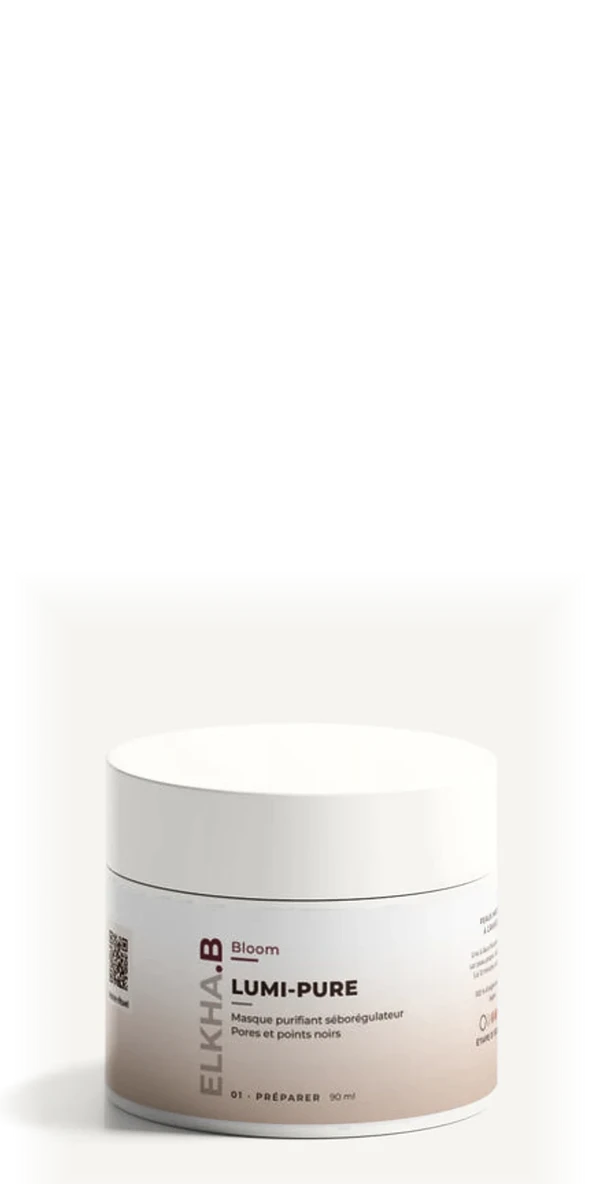
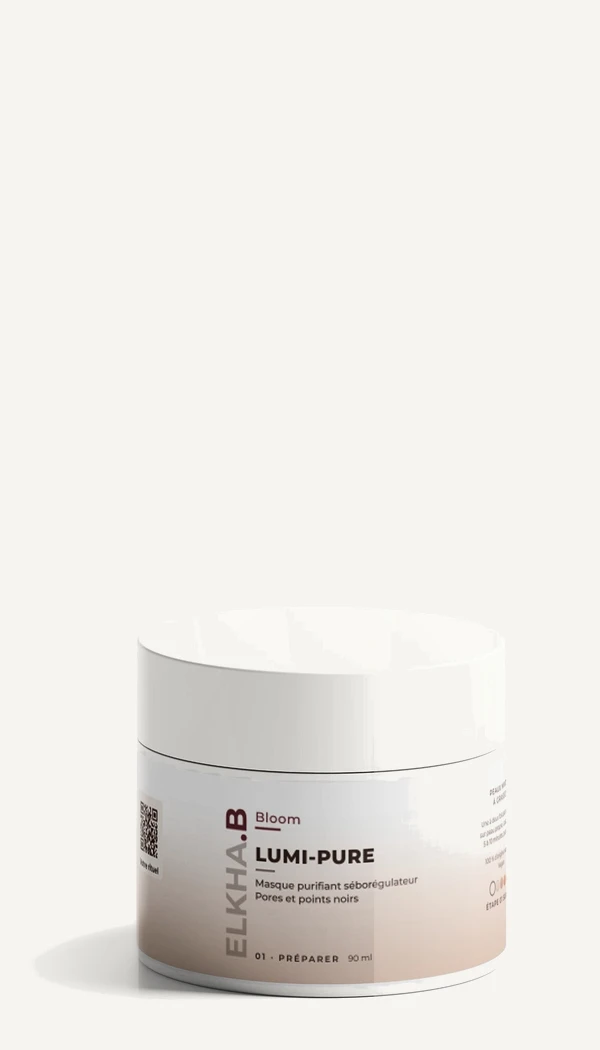
Add files via upload

diff --git a/soins-engine.js b/soins-engine.js
@@ -304,7 +304,7 @@
   + ".filtre .ebs-card.off .ebs-tx,.filtre .ebs-card.off .ebs-num{display:none}"
   + ".filtre .ebs-h.vide{margin:0 0 8px}"
   + ".filtre .ebs-h.vide p{display:none}"
-  + ".ebs-ph{display:block;position:relative;aspect-ratio:1 / 2;overflow:hidden}"
+  + ".ebs-ph{display:block;position:relative;aspect-ratio:4 / 7;overflow:hidden}"
   + ".ebs-ph img{display:block;position:absolute;inset:0;width:100%;height:100%;object-fit:contain;object-position:50% 100%}"
   + "@media (min-width:900px){.ebs-ph{aspect-ratio:auto;height:clamp(330px,29vw,420px)}}"   // ordinateur : flacons un peu plus grands, sans cases trop hautes
   // secours si la photo ne peut pas être retravaillée : bords fondus en CSS
@@ -442,7 +442,7 @@
     }
   });
   if(REGLAGES.pontBalance) h += '<div class="ebs-pont" aria-live="polite"></div>';
-  if(SOINS[COFFRET.soin]) h += '<section class="ebs-cof"><h2 class="ebs-coft">' + esc(COFFRET.surtitre) + '</h2>' + (COFFRET.texte ? '<p class="ebs-cofp">' + esc(COFFRET.texte) + '</p>' : '') + vignette(COFFRET.soin, null).replace('<img ', '<img data-fond="' + esc(REGLAGES.fondCoffret) + '" ') + '</section>';
+  if(SOINS[COFFRET.soin]) h += '<section class="ebs-cof"><h2 class="ebs-coft">' + esc(COFFRET.surtitre) + '</h2>' + (COFFRET.texte ? '<p class="ebs-cofp">' + esc(COFFRET.texte) + '</p>' : '') + vignette(COFFRET.soin, null) + '</section>';
   h += '<div class="ebs-cib" id="ebs-cibles"><h2>' + esc(CIBLES.titre) + '</h2><span>' + esc(CIBLES.sousTitre) + '</span><p>' + esc(CIBLES.texte) + '</p></div>';
   h += CIBLES.soins.map(function(id){ return vignette(id, null); }).join('');
   h += '</div>' + texteBloom;
